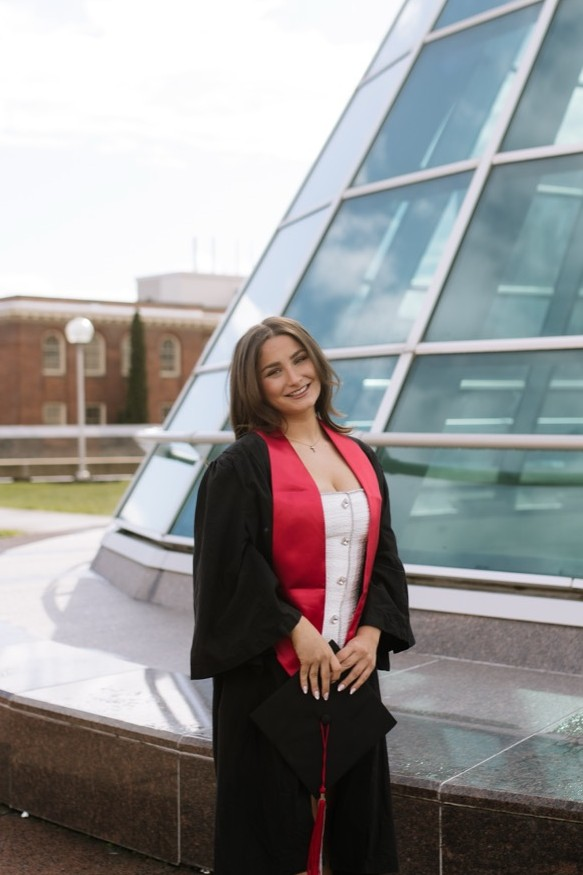
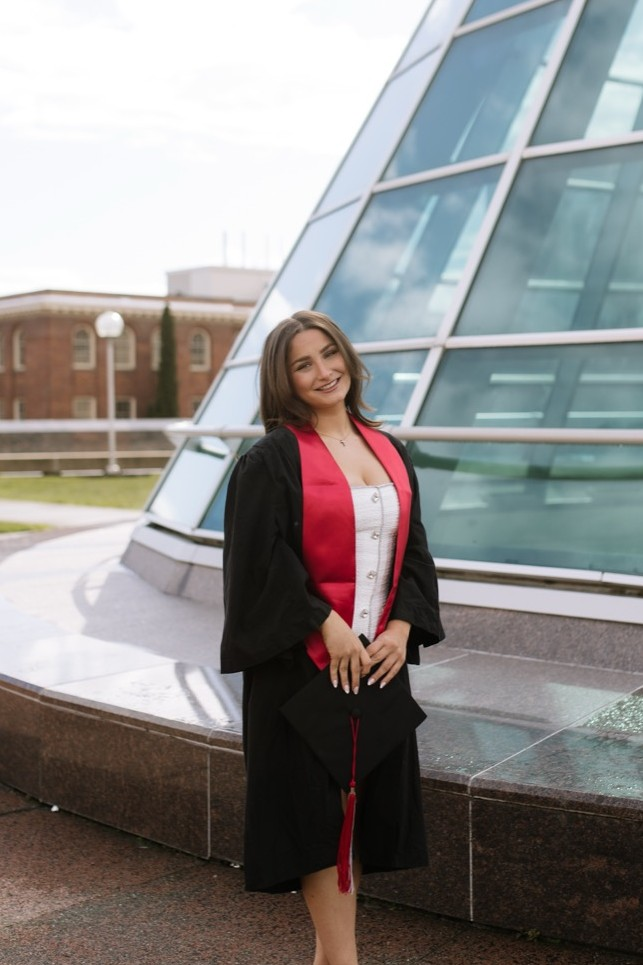
Rebalance grad photo framing
Re-crop ~1.45x and center Amelia in the frame for balanced headroom and
ground; bump cache version.

diff --git a/index.html b/index.html
@@ -117,7 +117,7 @@
     <div id="view-about" hidden>
       <!-- Top photo strip -->
       <div class="about-strip">
-        <div class="about-photo"><img src="images/p1.jpg?v=3" alt="Amelia at her university graduation"></div>
+        <div class="about-photo"><img src="images/p1.jpg?v=4" alt="Amelia at her university graduation"></div>
         <div class="about-photo"><img src="images/p5.jpg?v=2" alt="Amelia's dog sitting on the floor, tongue out"></div>
         <div class="about-photo"><img src="images/p2.jpg?v=4" alt="Seattle waterfront and the Space Needle at sunset"></div>
         <div class="about-photo"><img src="images/p3.jpg?v=2" alt="A screenprinting screen in the studio"></div>